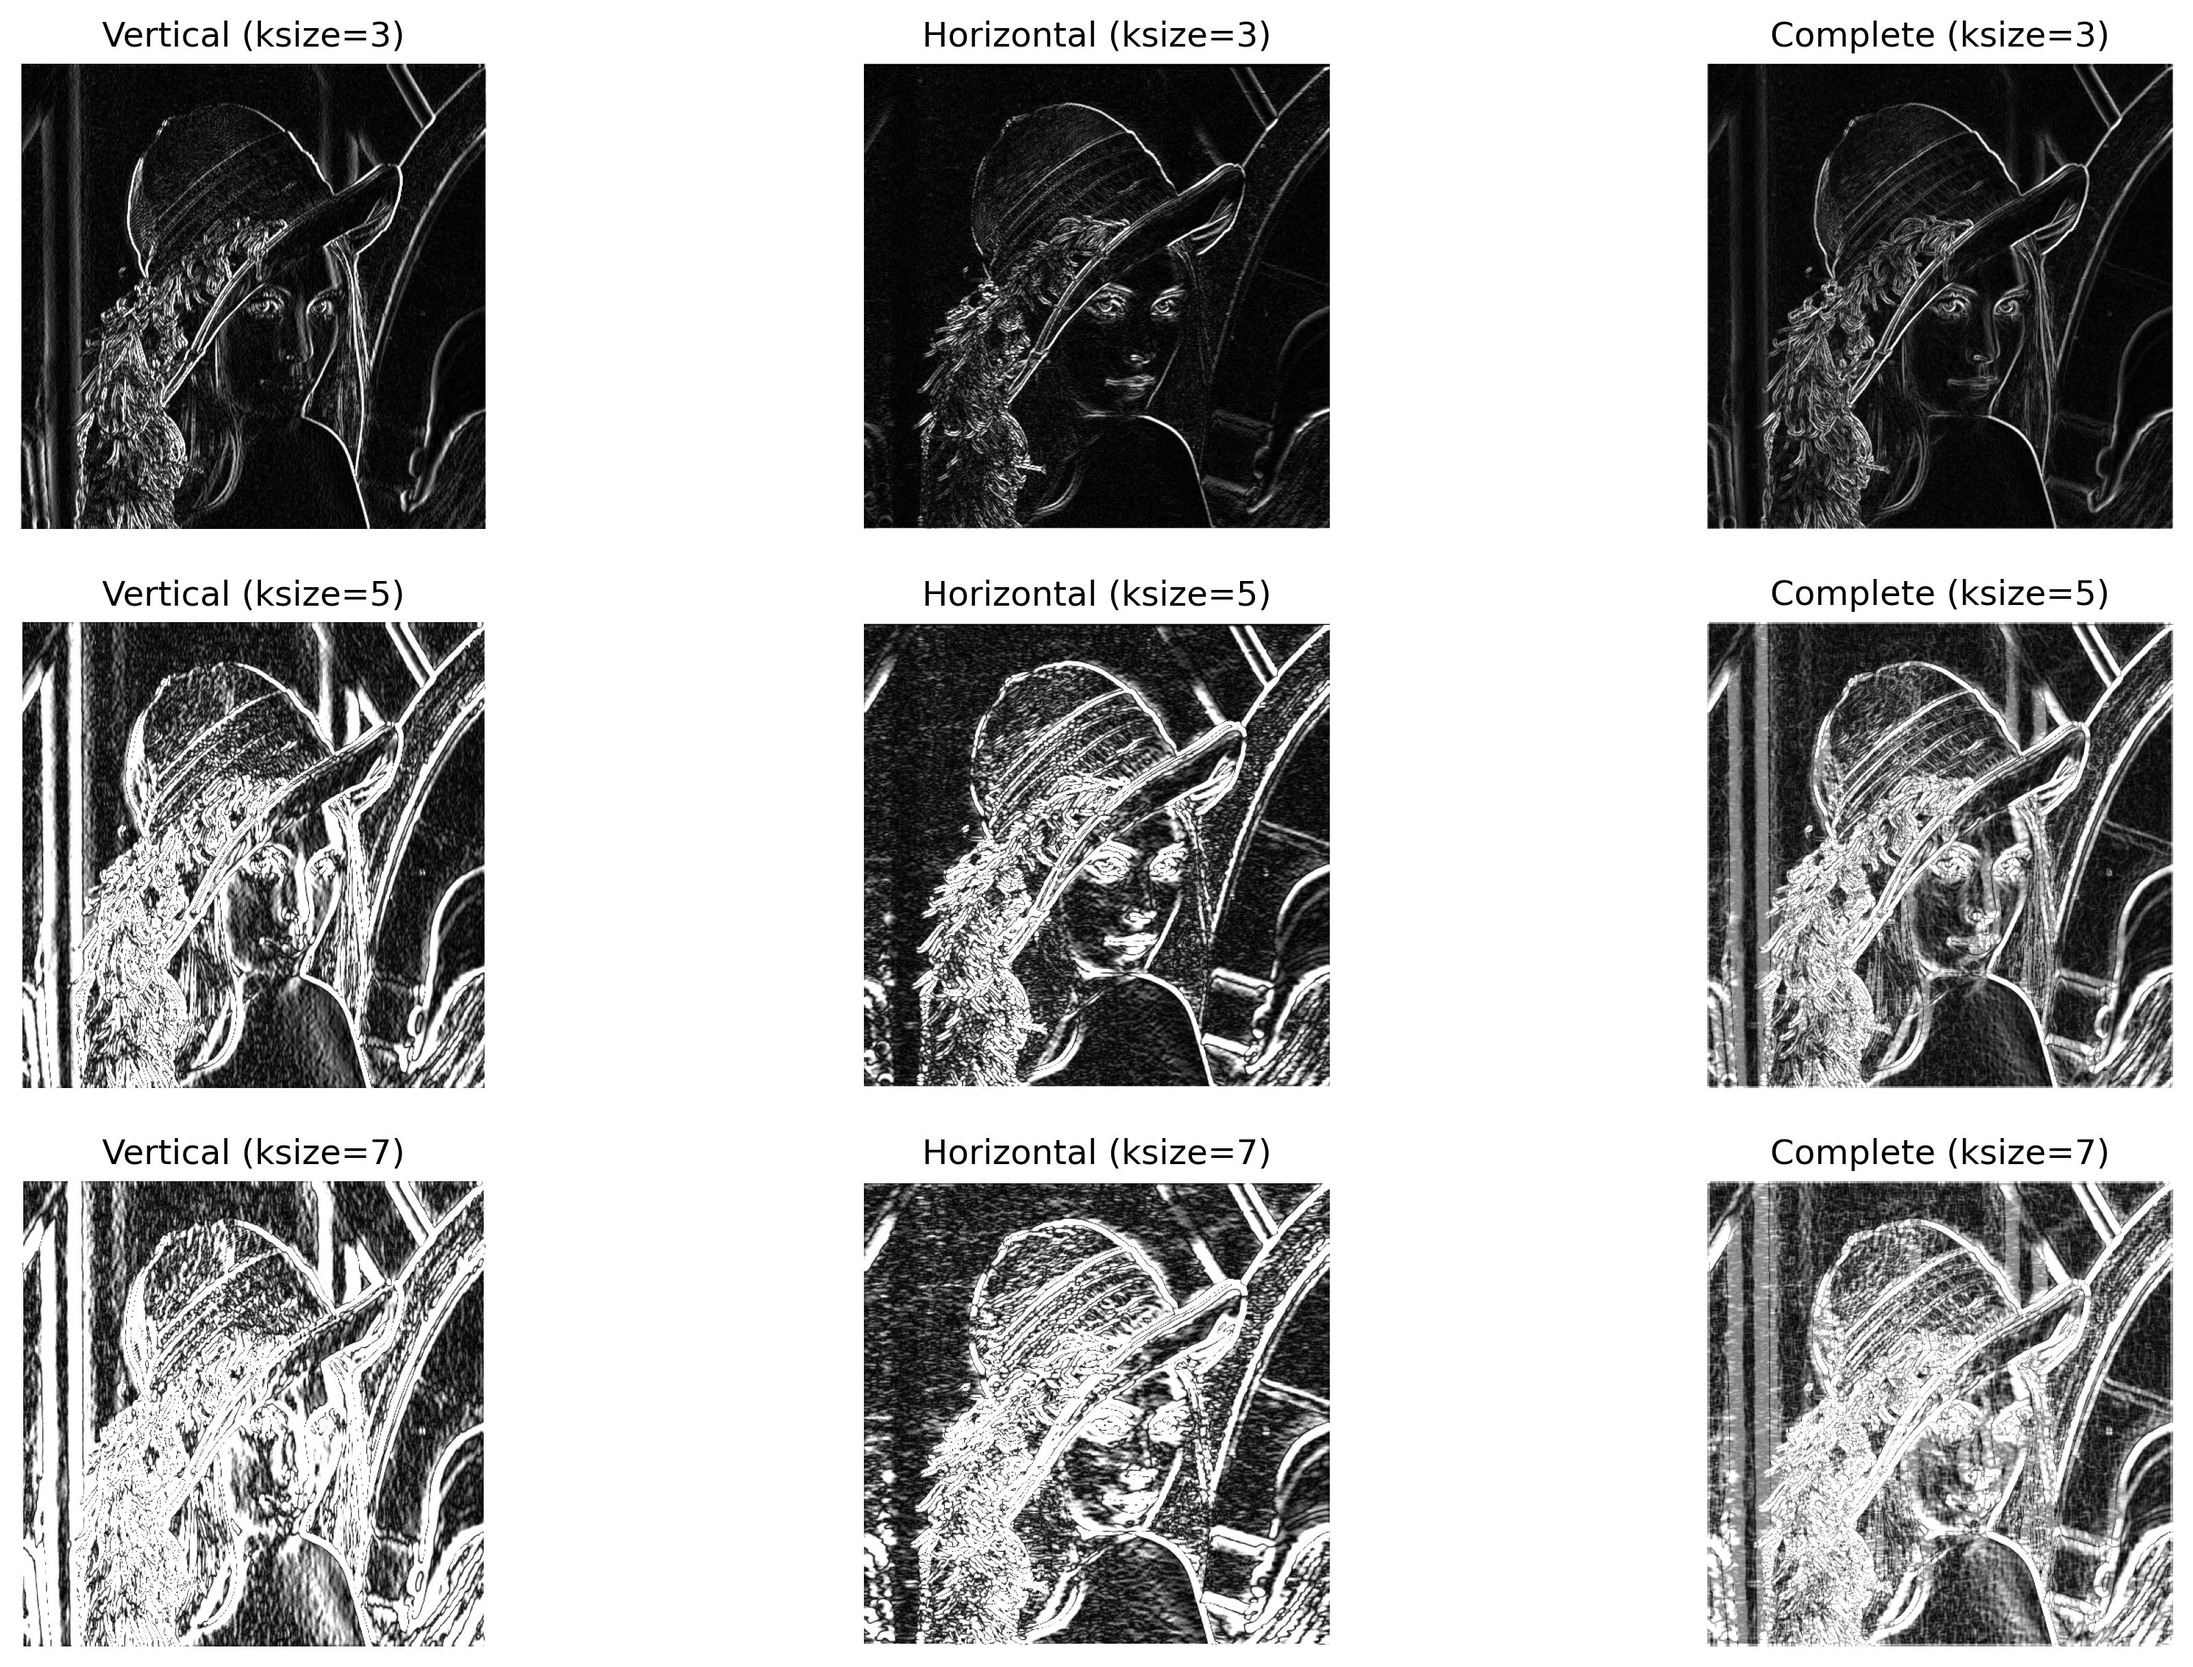
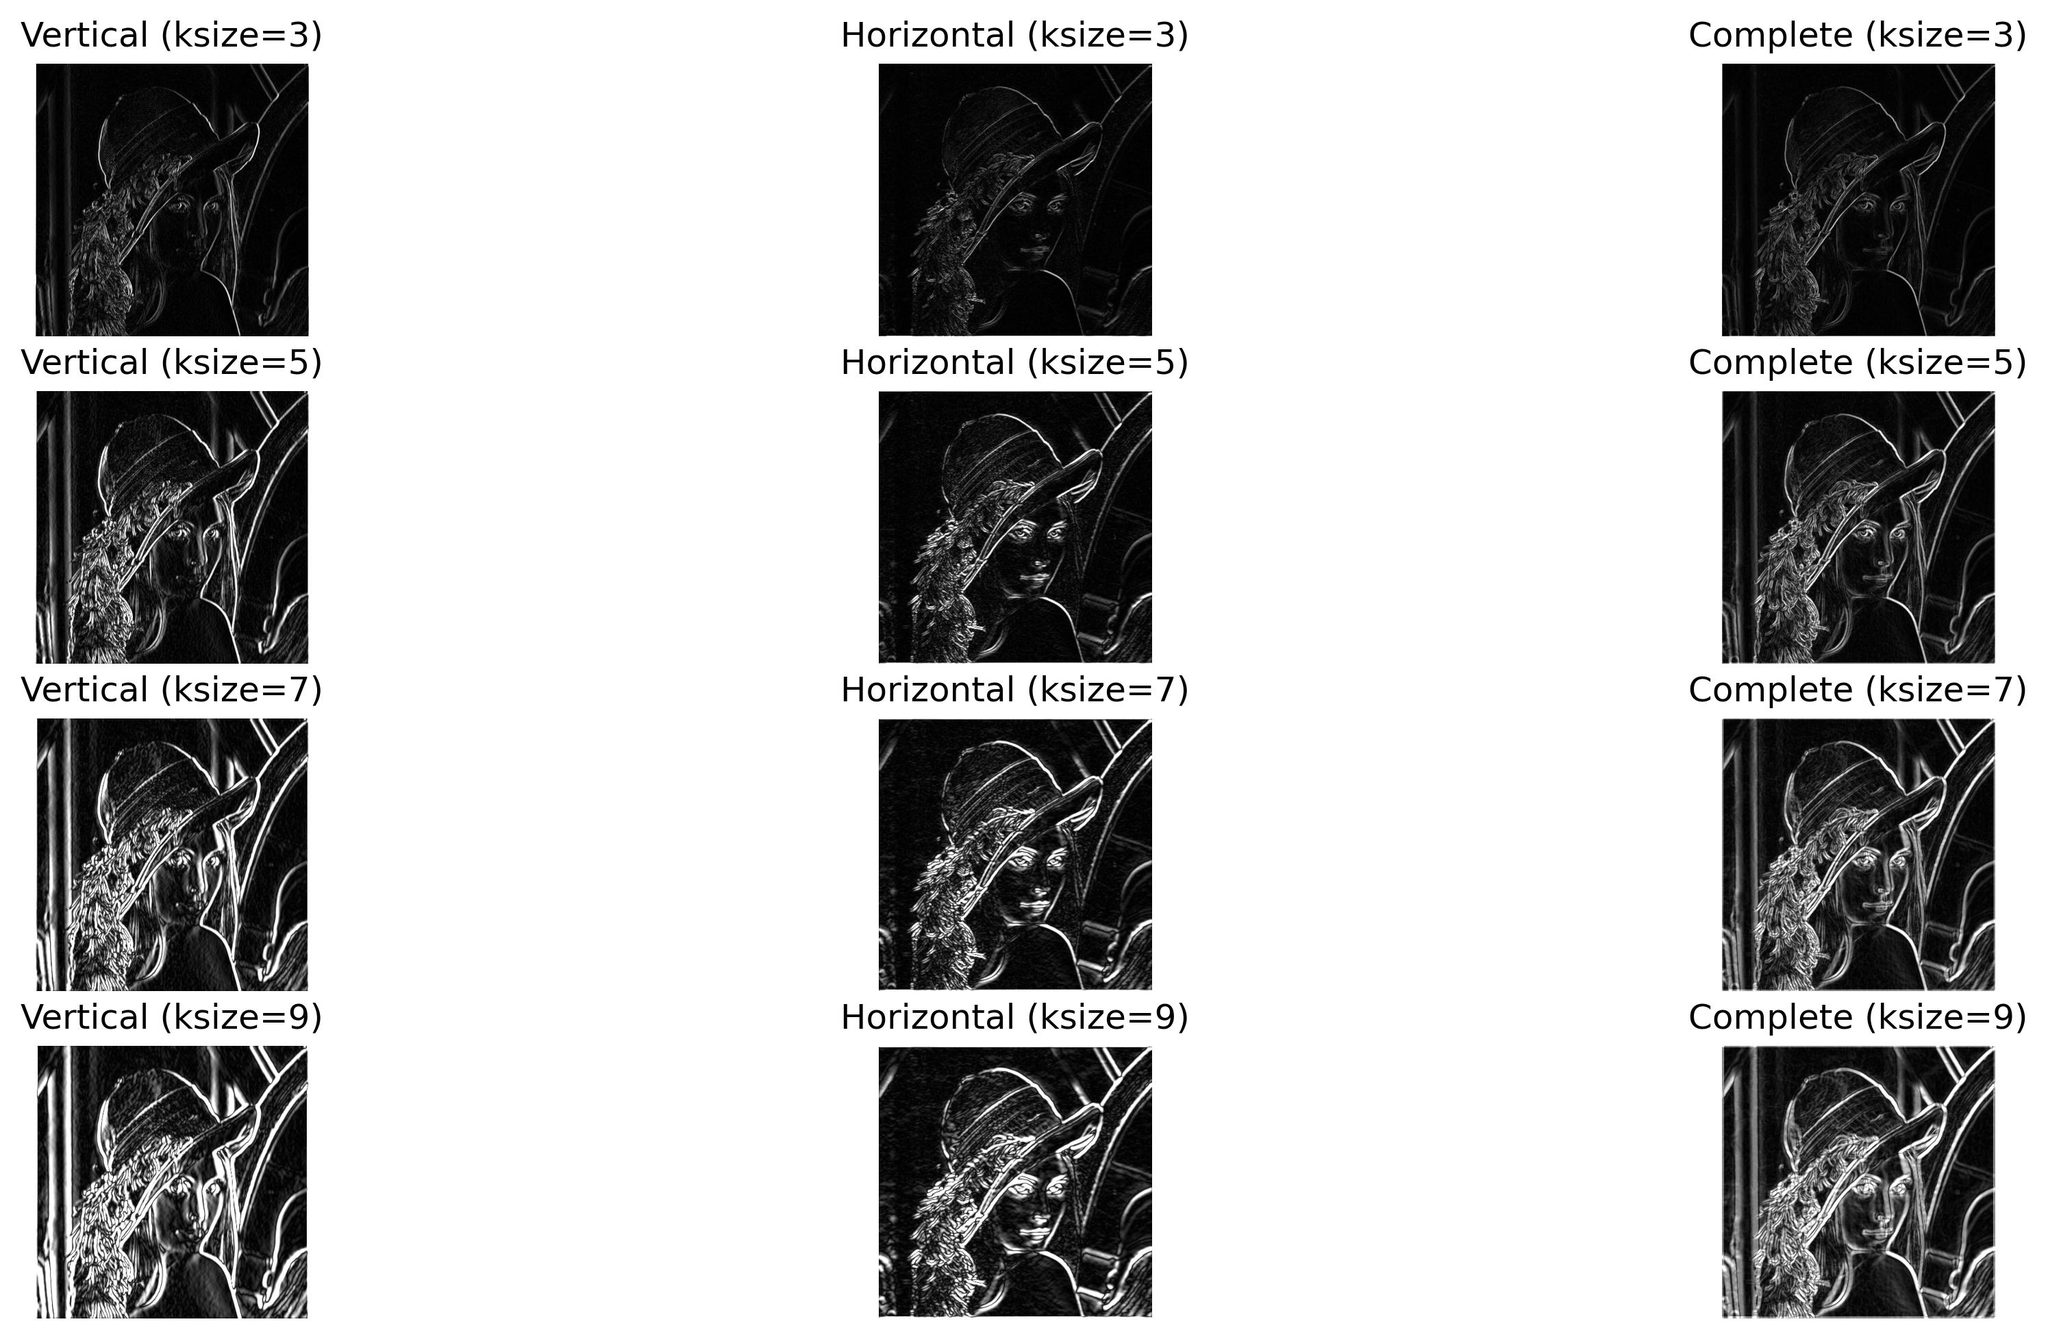
update: HW2_edge detection_Sobel

diff --git a/HW2/Edge detection/Sobel.py b/HW2/Edge detection/Sobel.py
@@ -6,6 +6,34 @@ import cv2 as cv
 import numpy as np
 from matplotlib import pyplot as plt
 
+# 根據 StackOverflow 上的方法，用公式 Gx 和 Gy 產生 Sobel kernel
+# 參考 : https://stackoverflow.com/questions/9567882/sobel-filter-kernel-of-large-size
+def generate_sobel_kernel(size):
+    assert size % 2 == 1, "Kernel size 必須是奇數"
+    half = size // 2
+    # 產生坐標網格 (i, j)
+    # i 是 x 偏移 (水平偏移)，j 是 y 偏移 (垂直偏移)
+    # 注意 indices: 第一維是 row (y, 對應 j)，第二維是 col (x, 對應 i)
+    ys, xs = np.indices((size, size), dtype=np.float32)
+    # 把中心移到 (0,0)
+    xs = xs - half
+    ys = ys - half
+
+    # 計算距離平方 (i^2 + j^2)
+    denom = xs * xs + ys * ys
+    # 避免中心除以 0
+    denom[half, half] = 1.0  # 先暫時設為 1，之後再把 kernel 中心設成 0
+
+    # Gx, Gy
+    Gx = xs / denom
+    Gy = ys / denom
+
+    # 中心 (i=0, j=0) 設為 0
+    Gx[half, half] = 0.0
+    Gy[half, half] = 0.0
+
+    return Gx, Gy
+
 # 自製 Sobel 運算函式
 def Sobel_operator(img, direction='x', ksize=3):
     """
@@ -14,50 +42,11 @@ def Sobel_operator(img, direction='x', ksize=3):
     direction: 'x' 或 'y'
     ksize: 3, 5, 7 (奇數)
     """
+    Gx, Gy = generate_sobel_kernel(ksize)
+    kernel = Gx if direction == 'x' else Gy
 
-    # Sobel kernel 尺寸 (ksize = 3,5,7 對應 3x3、5x5、7x7)
-    real_kernel = ksize if ksize > 1 else 3
-
-    # 生成 Sobel kernels
-    if real_kernel == 3:
-        Kx = np.array([[-1, 0, 1],
-                       [-2, 0, 2],
-                       [-1, 0, 1]], dtype=np.float32)
-
-        Ky = np.array([[-1, -2, -1],
-                       [ 0,  0,  0],
-                       [ 1,  2,  1]], dtype=np.float32)
-
-    elif real_kernel == 5:
-        # 5x5 Sobel kernel（常用版本）
-        Kx = np.array([
-            [-2, -1, 0, 1, 2],
-            [-2, -1, 0, 1, 2],
-            [-4, -2, 0, 2, 4],
-            [-2, -1, 0, 1, 2],
-            [-2, -1, 0, 1, 2]
-        ], dtype=np.float32)
-
-        Ky = Kx.T
-
-    elif real_kernel == 7:
-        # 7x7 Sobel kernel（擴展版，類似 Gaussian 加梯度）
-        # 這種 kernel 可自行設計或查表，這裡給常用版本
-        g = np.array([1, 2, 3, 0, -3, -2, -1], dtype=np.float32)
-        Kx = np.outer(np.ones(7), g)
-        Ky = Kx.T
-
-    else:
-        raise ValueError("Unsupported Sobel size")
-
-    # 選方向
-    if direction == 'x':
-        kernel = Kx
-    else:
-        kernel = Ky
-
-    # convolution（零填充）
-    pad = real_kernel // 2
+    # convolution 邊界填充 0
+    pad = ksize // 2
     padded = np.pad(img, ((pad, pad), (pad, pad)), mode='constant')
 
     H, W = img.shape
@@ -65,17 +54,18 @@ def Sobel_operator(img, direction='x', ksize=3):
 
     for i in range(H):
         for j in range(W):
-            region = padded[i:i+real_kernel, j:j+real_kernel]
+            region = padded[i:i+ksize, j:j+ksize]
             output[i, j] = np.sum(region * kernel)
 
     return output
 
-
 def Sobel_edge_detection_test(img):
     plt.figure(figsize=(15, 10))
 
-    # 嘗試 mask size = 3, 5, 7
-    for n in range(1, 4):
+    # 嘗試 mask size = 3, 5, 7, 9
+    s = 1
+    e = 5
+    for n in range(s, e):
         kernel_size = 1 + (n * 2)
 
         # 使用自製 Sobel 函式
@@ -85,27 +75,29 @@ def Sobel_edge_detection_test(img):
         # 轉成 uint8 顯示
         absX = cv.convertScaleAbs(sx)
         absY = cv.convertScaleAbs(sy)
+        # 合併兩張影像, 兩方向的權重各 50%
         dst = cv.addWeighted(absX, 0.5, absY, 0.5, 0)
 
         # 顯示
         idx = (n-1) * 3 + 1
 
-        plt.subplot(3, 3, idx)
+        plt.subplot(e-s+1, 3, idx)
         plt.imshow(absX, cmap='gray')
         plt.title(f'Vertical (ksize={kernel_size})')
         plt.axis('off')
 
-        plt.subplot(3, 3, idx + 1)
+        plt.subplot(e-s+1, 3, idx + 1)
         plt.imshow(absY, cmap='gray')
         plt.title(f'Horizontal (ksize={kernel_size})')
         plt.axis('off')
 
-        plt.subplot(3, 3, idx + 2)
+        plt.subplot(e-s+1, 3, idx + 2)
         plt.imshow(dst, cmap='gray')
         plt.title(f'Complete (ksize={kernel_size})')
         plt.axis('off')
 
     # 儲存結果
+    cur_path = os.path.dirname(os.path.abspath(__file__))
     save_path = os.path.join(cur_path, 'Sobel_operator_custom.jpg')
     plt.savefig(save_path, bbox_inches='tight', dpi=300)
     plt.tight_layout()
@@ -122,3 +114,9 @@ if __name__ == "__main__":
     gray_img = cv.cvtColor(color_img, cv.COLOR_BGR2GRAY)
 
     Sobel_edge_detection_test(gray_img)
+
+    # sobel kernel
+    # print(generate_sobel_kernel(3)[0]*2)
+    # print(generate_sobel_kernel(5)[0]*20)
+    # print(generate_sobel_kernel(7)[0]*780)
+    # print(generate_sobel_kernel(9)[0]*132600)
